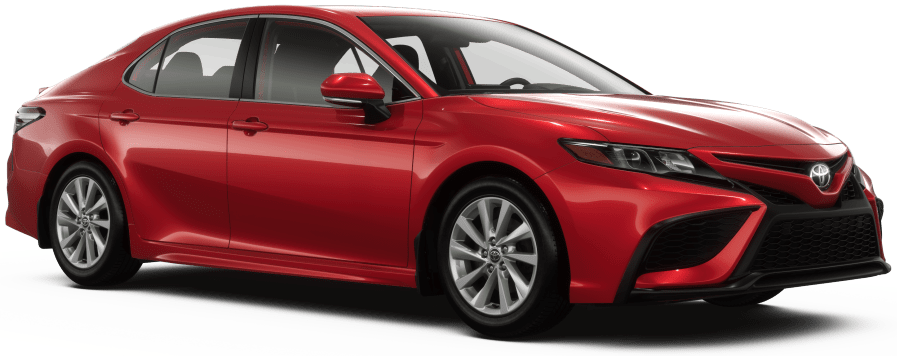
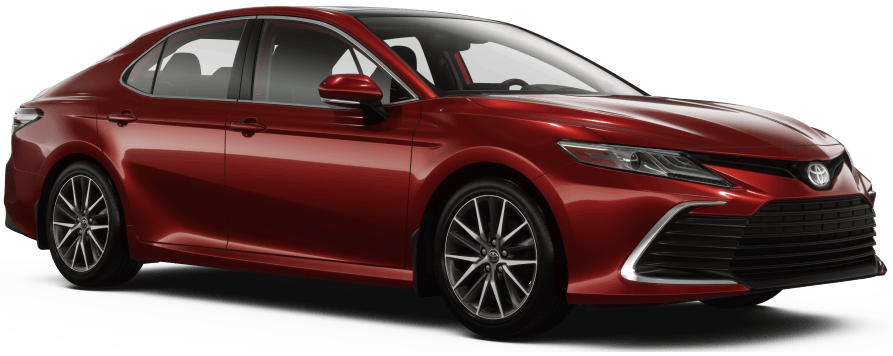
Change red exterior colour

diff --git a/style.css b/style.css
@@ -65,7 +65,7 @@ img {
 }
 
 .red-ext-btn {
-  background-color: #981720;
+  background-color: #6d1312;
 }
 
 .silver-ext-btn {
